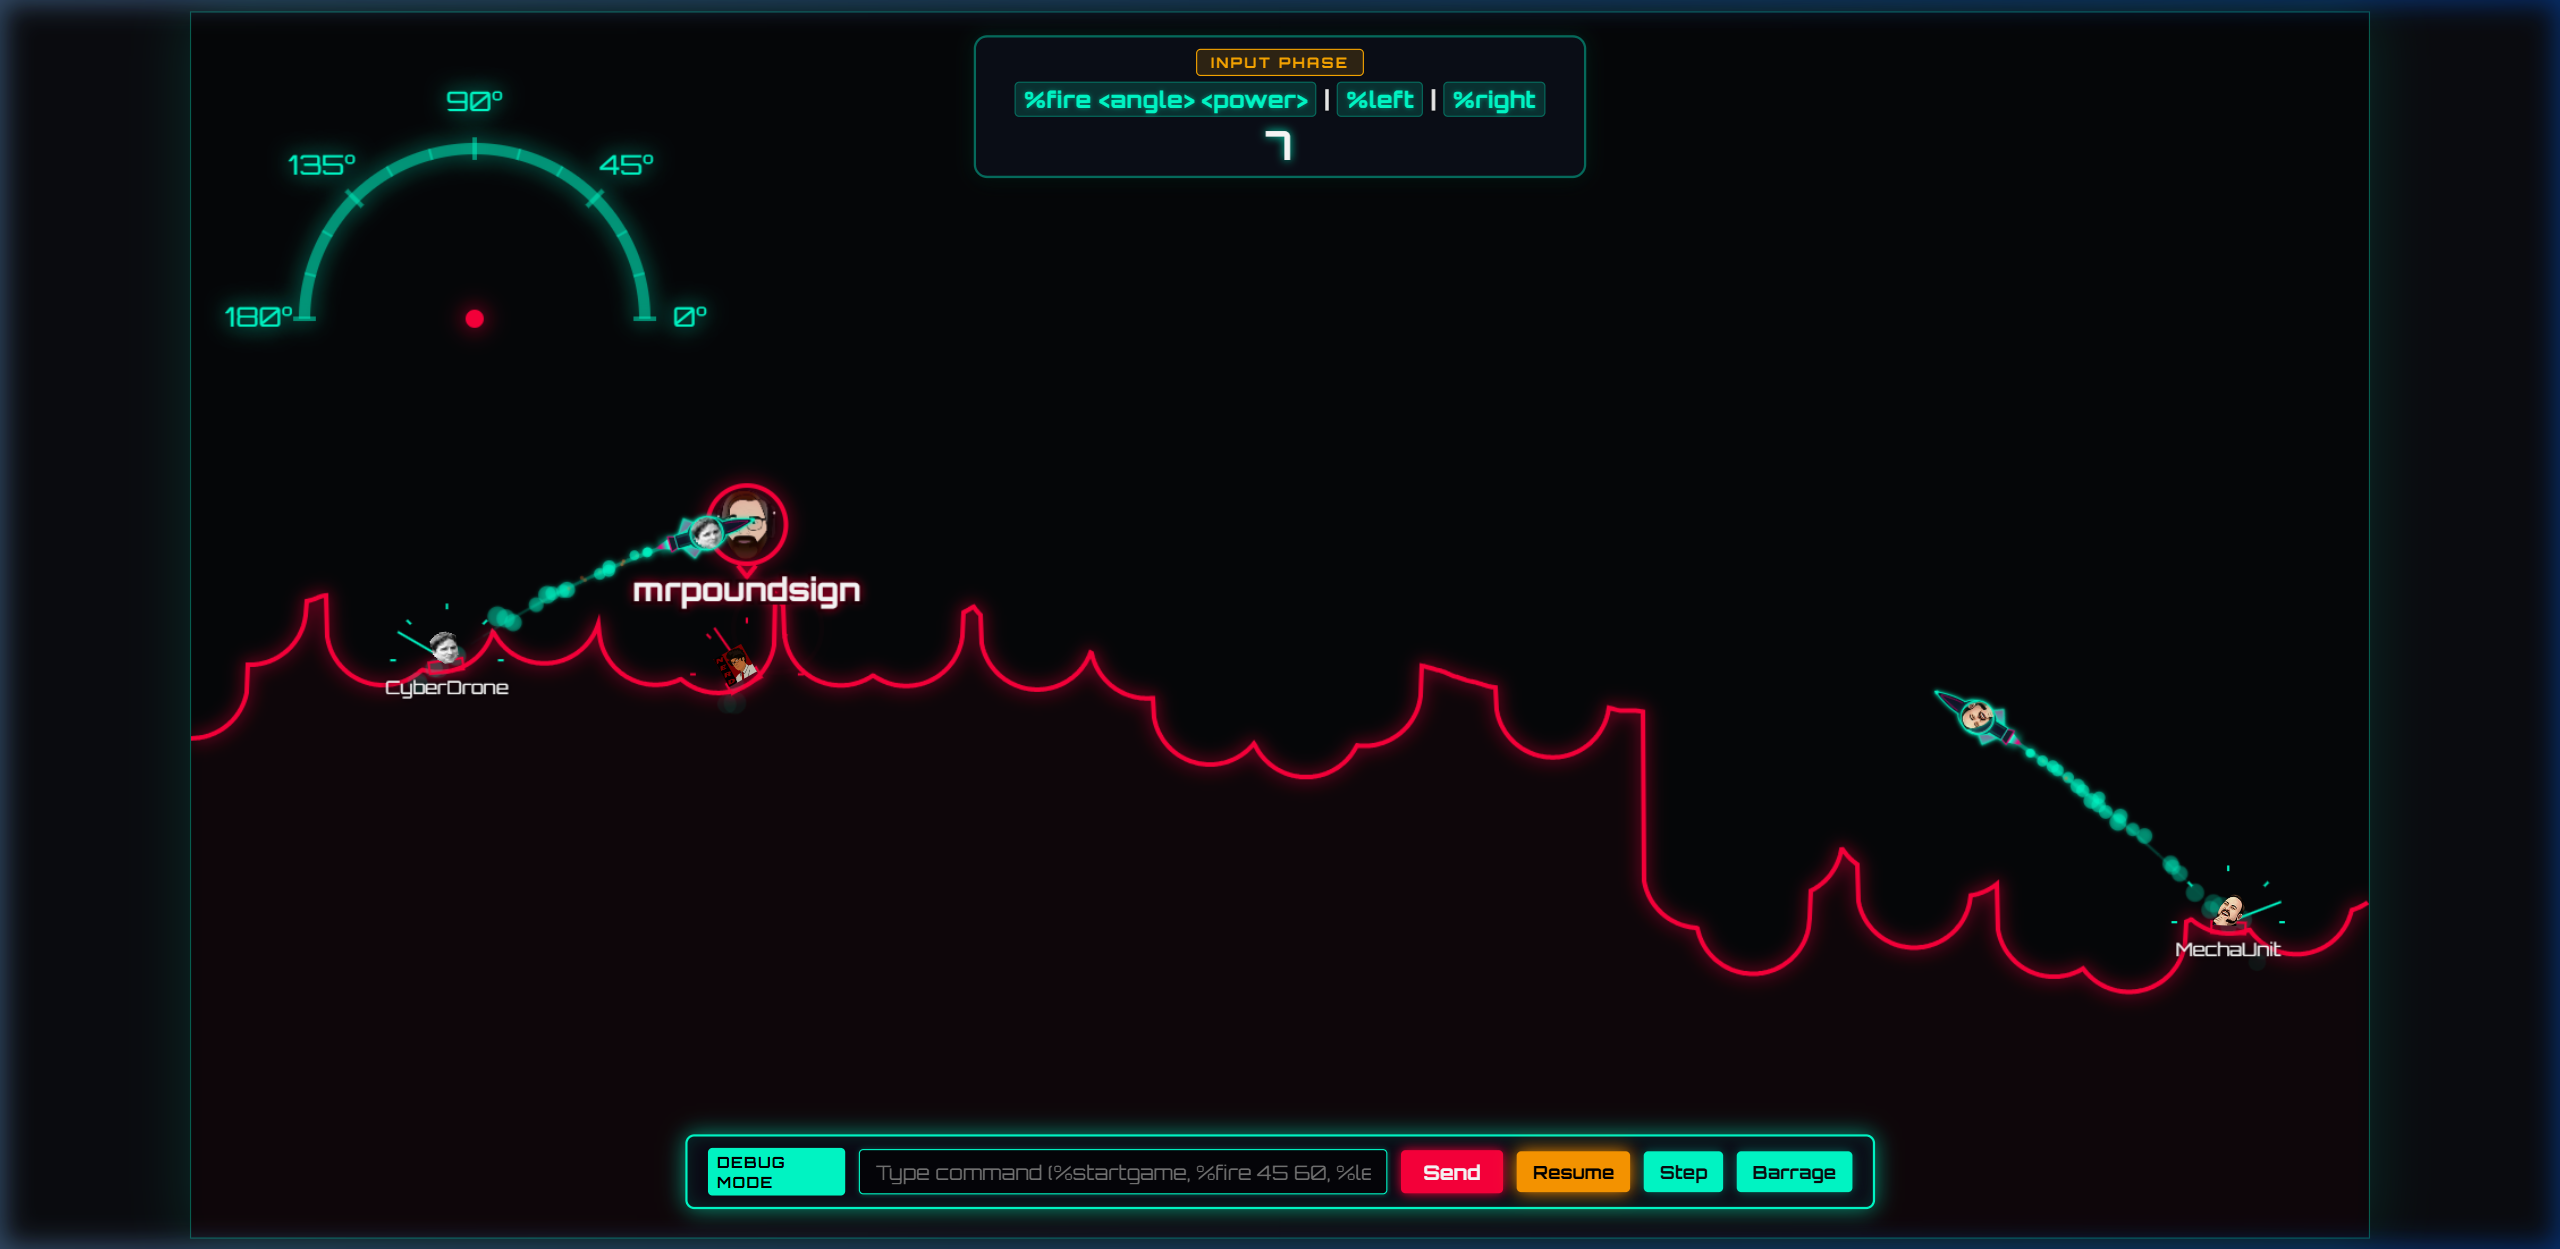
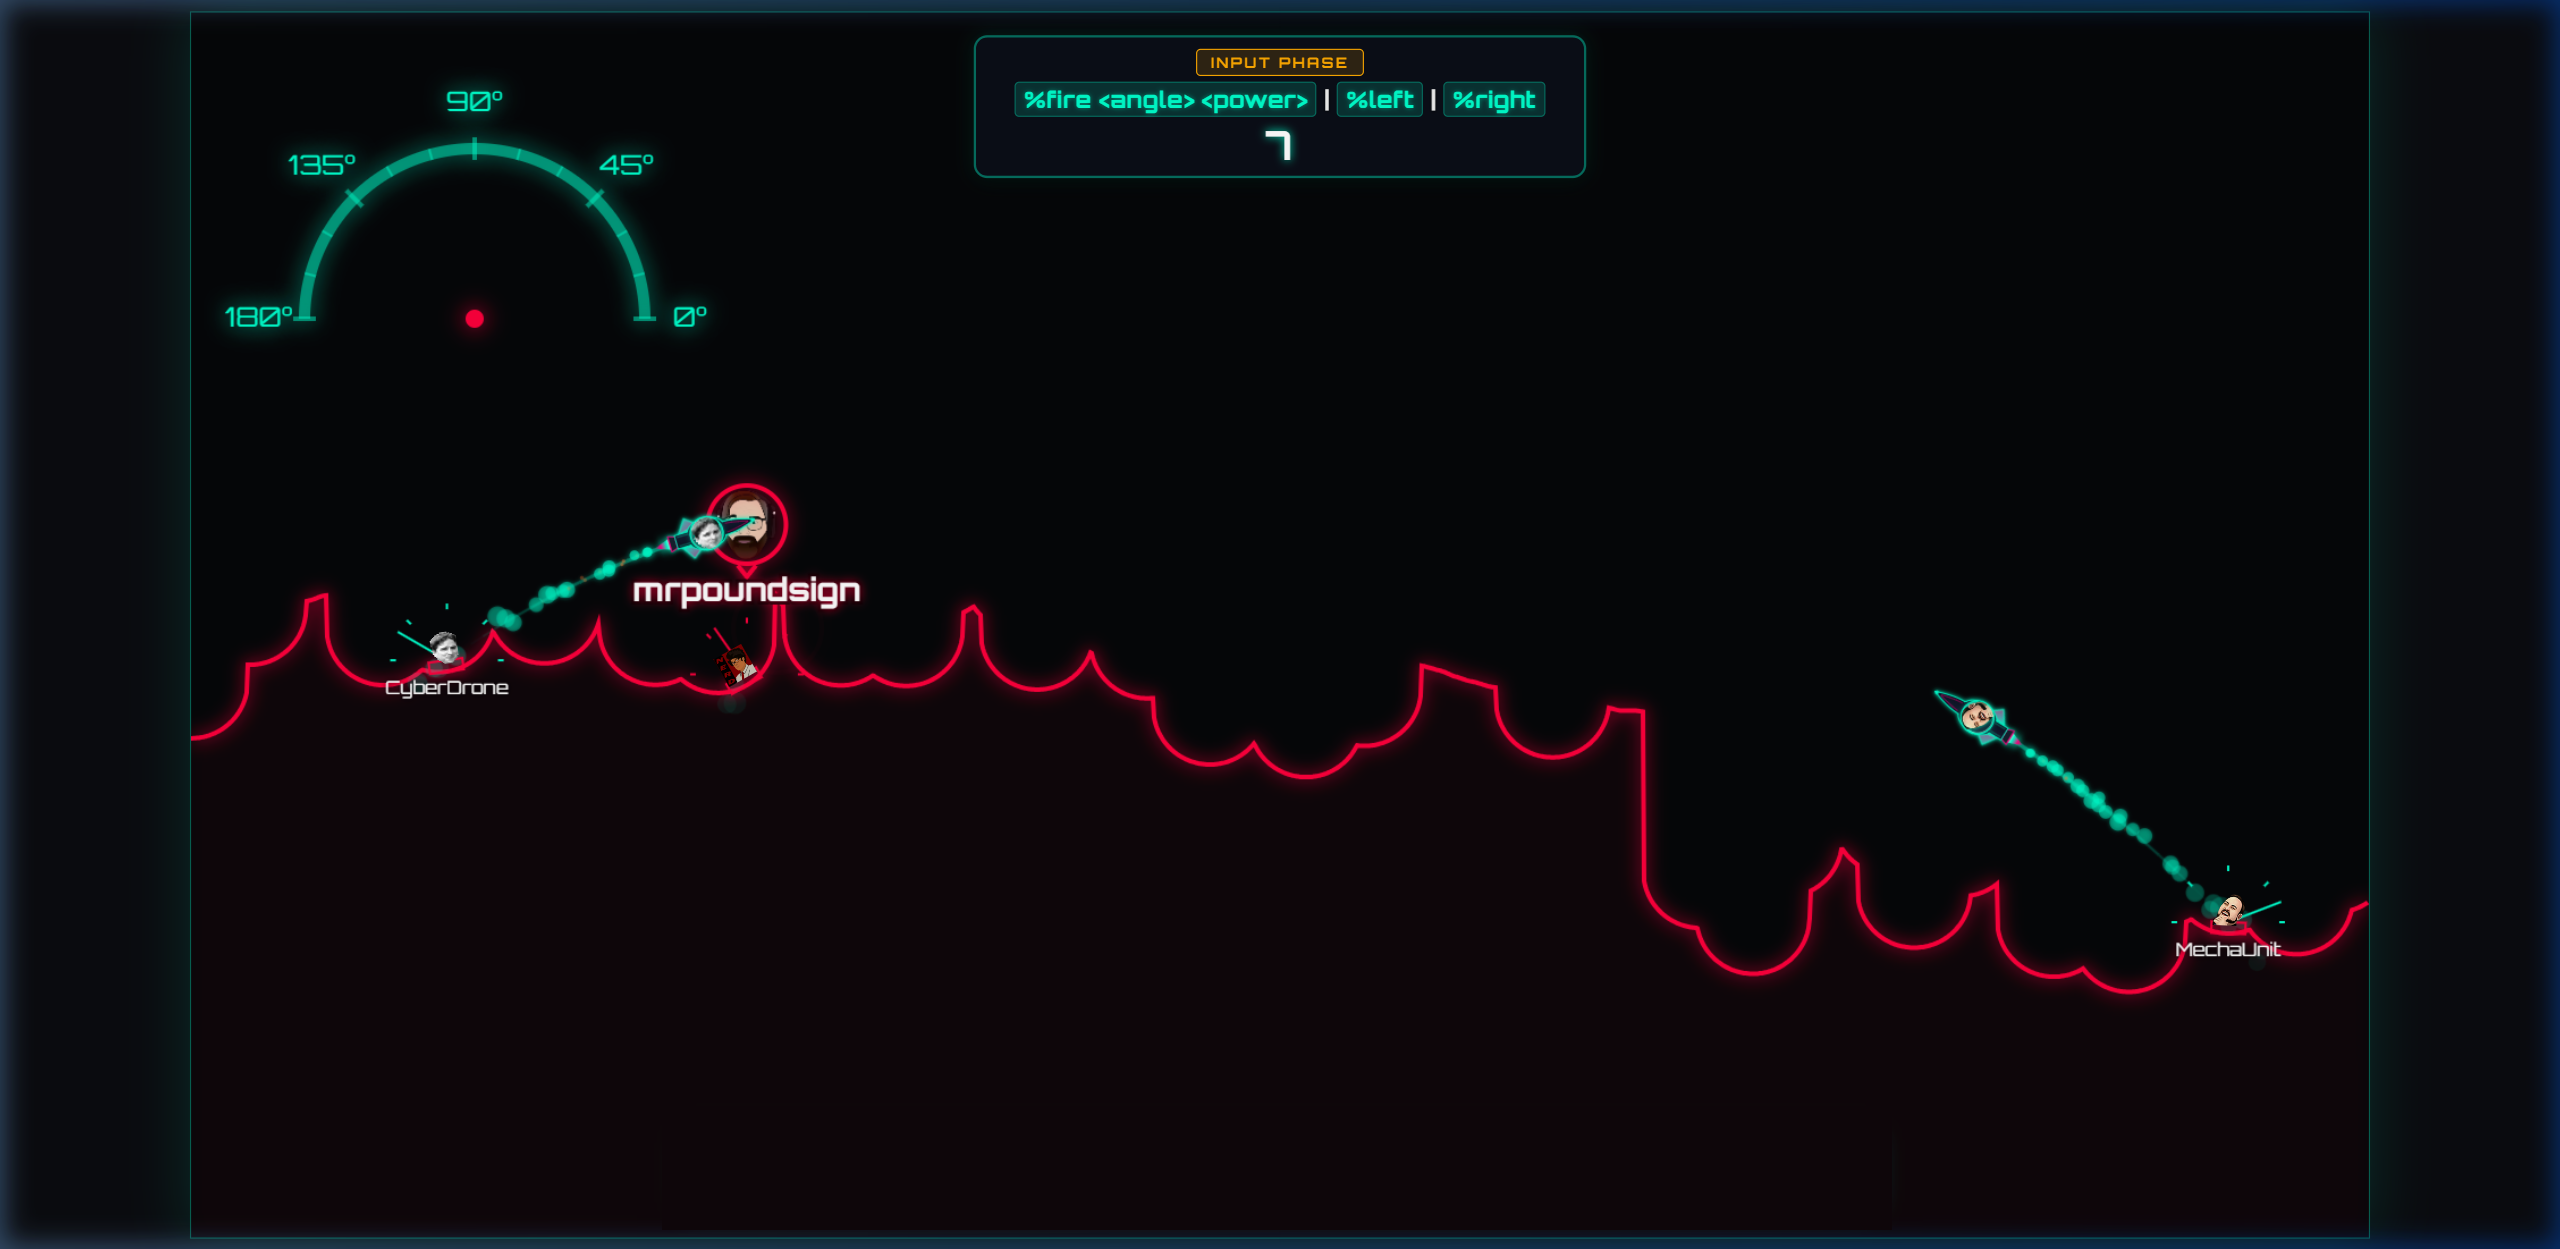
docs: update wording to custom emote tanks, fix hero centering, and update rocket screenshot

Changed region(s): [[0.25, 0.8743, 0.75, 0.9992]]

diff --git a/docs/index.html b/docs/index.html
@@ -4,7 +4,7 @@
   <meta charset="UTF-8">
   <meta name="viewport" content="width=device-width, initial-scale=1.0">
   <title>StreamTanks — Interactive Twitch Chat Artillery Game & OBS Overlay</title>
-  <meta name="description" content="StreamTanks is an open-source, interactive Twitch chat artillery game and OBS browser overlay. Stream viewers join the battlefield, control neon tanks with custom emotes, aim angles, and blast destructible terrain.">
+  <meta name="description" content="StreamTanks is an open-source, interactive Twitch chat artillery game and OBS browser overlay. Stream viewers join the battlefield, control custom emote tanks, aim angles, and blast destructible terrain.">
   <meta name="keywords" content="StreamTanks, Twitch chat game, OBS overlay, streamer tools, interactive stream game, Twitch extension, artillery game">
   
   <!-- Open Graph / Social Meta -->
@@ -77,10 +77,10 @@
           <span>NEXT-GEN INTERACTIVE TWITCH ARTILLERY GAME</span>
         </div>
         <h1 class="hero-title">
-          Turn Your Twitch Chat Into an <span class="gradient-text">All-Out Tank Battlefield</span>
+          Turn Your Twitch Chat Into an<br><span class="gradient-text">All-Out Tank Battlefield</span>
         </h1>
         <p class="hero-subtitle">
-          Stream viewers join directly through chat, deploy custom neon tanks crowned with their favorite emotes, lock in trajectory angles, blast craters through dynamic destructible terrain, and battle for the stream leaderboard!
+          Stream viewers join directly through chat, deploy custom emote tanks crowned with their favorite emotes, lock in trajectory angles, blast craters through dynamic destructible terrain, and battle for the stream leaderboard!
         </p>
 
         <div class="hero-pills">
@@ -163,7 +163,7 @@
         <div class="feature-card">
           <div class="feature-icon">🎨</div>
           <h3 class="feature-title">Custom Emote Tanks</h3>
-          <p class="feature-text">Viewers choose their favorite Twitch channel emotes to crown their neon tanks. Tank preferences automatically save in SQLite so their avatar stays ready every match.</p>
+          <p class="feature-text">Viewers choose their favorite Twitch channel emotes to crown their custom emote tanks. Tank preferences automatically save in SQLite so their avatar stays ready every match.</p>
         </div>
 
         <div class="feature-card">

diff --git a/docs/style.css b/docs/style.css
@@ -415,6 +415,14 @@ a:hover {
   text-align: center;
 }
 
+.hero-content {
+  display: flex;
+  flex-direction: column;
+  align-items: center;
+  text-align: center;
+  width: 100%;
+}
+
 .hero-eyebrow {
   display: inline-flex;
   align-items: center;
@@ -444,16 +452,19 @@ a:hover {
   font-weight: 900;
   letter-spacing: -0.02em;
   line-height: 1.15;
-  margin-bottom: 24px;
+  margin: 0 auto 24px;
   max-width: 960px;
+  text-align: center;
 }
 
 .hero-subtitle {
   font-size: 1.25rem;
   color: var(--text-secondary);
   max-width: 780px;
-  margin-bottom: 32px;
+  margin: 0 auto 32px;
   line-height: 1.6;
+  text-align: center;
+  text-wrap: balance;
 }
 
 .hero-pills {

diff --git a/README.md b/README.md
@@ -2,7 +2,7 @@
 
 **StreamTanks** is a lightweight, interactive Twitch chat artillery game and transparent browser overlay designed for OBS Studio and stream broadcasts. 
 
-Viewers join the battlefield directly through your Twitch chat, command custom neon tanks, aim their cannons with angle and power, and blow chunks out of dynamic destructible terrain while competing for the stream leaderboard!
+Viewers join the battlefield directly through your Twitch chat, command custom emote tanks, aim their cannons with angle and power, and blow chunks out of dynamic destructible terrain while competing for the stream leaderboard!
 
 ---
 
